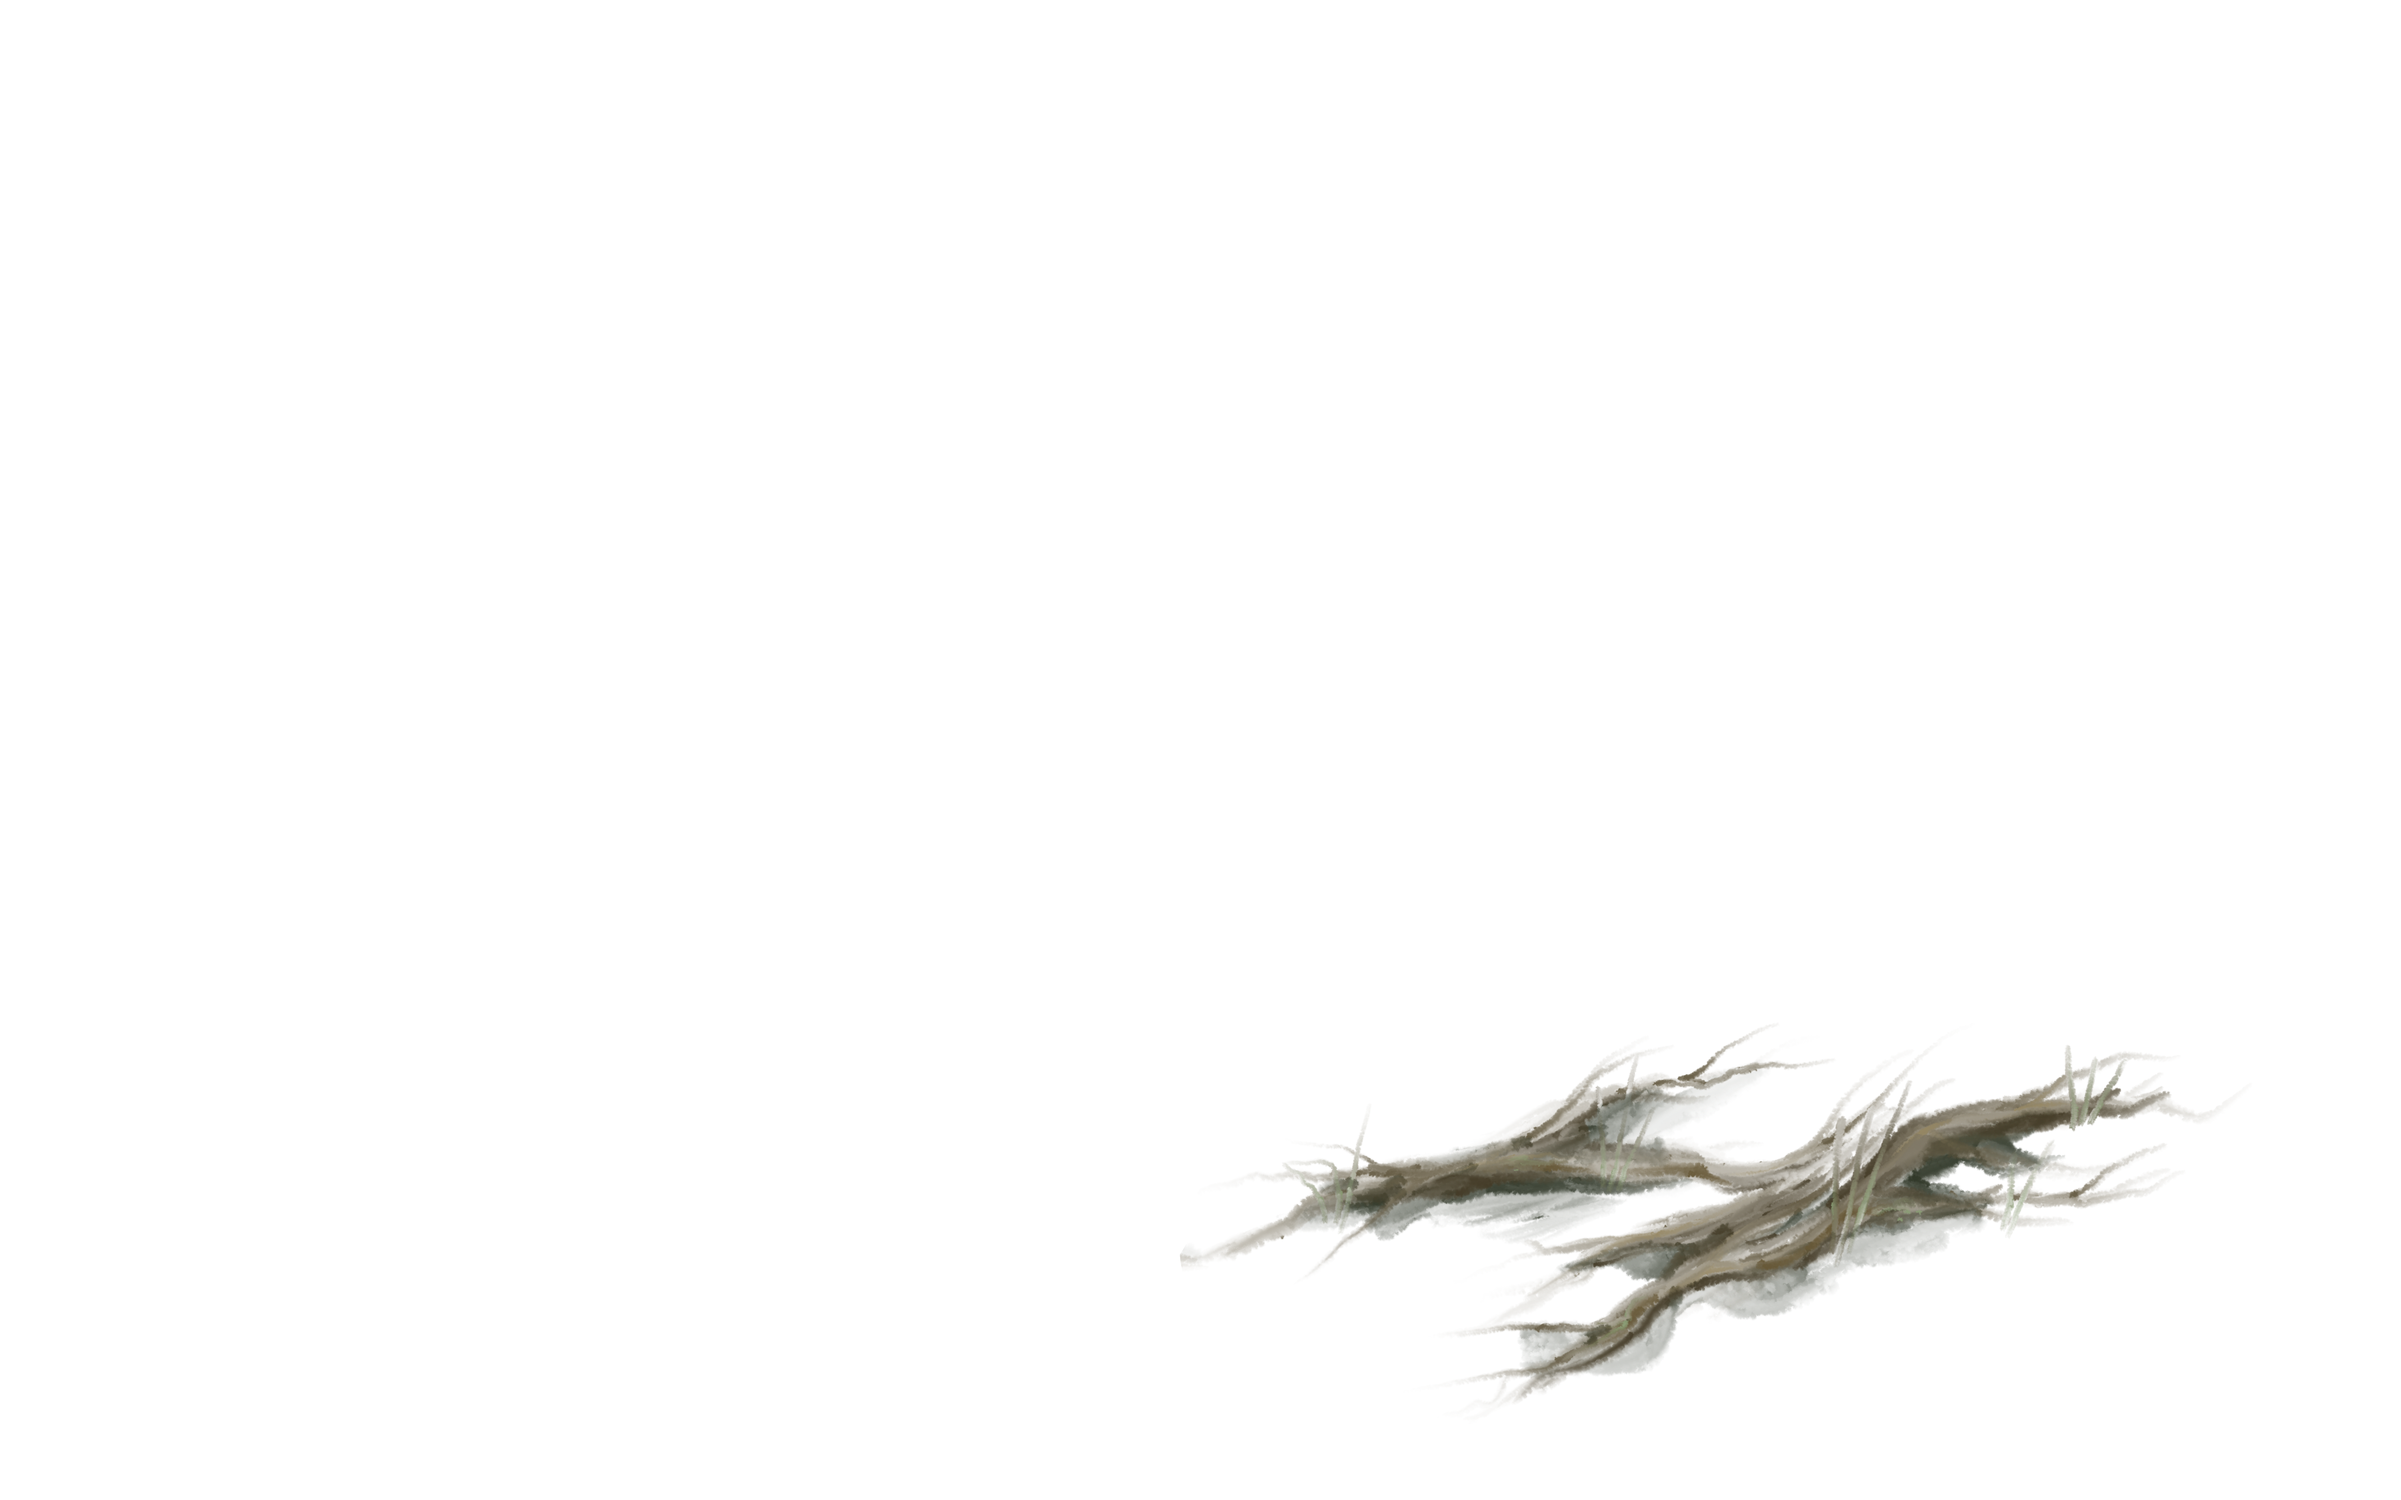
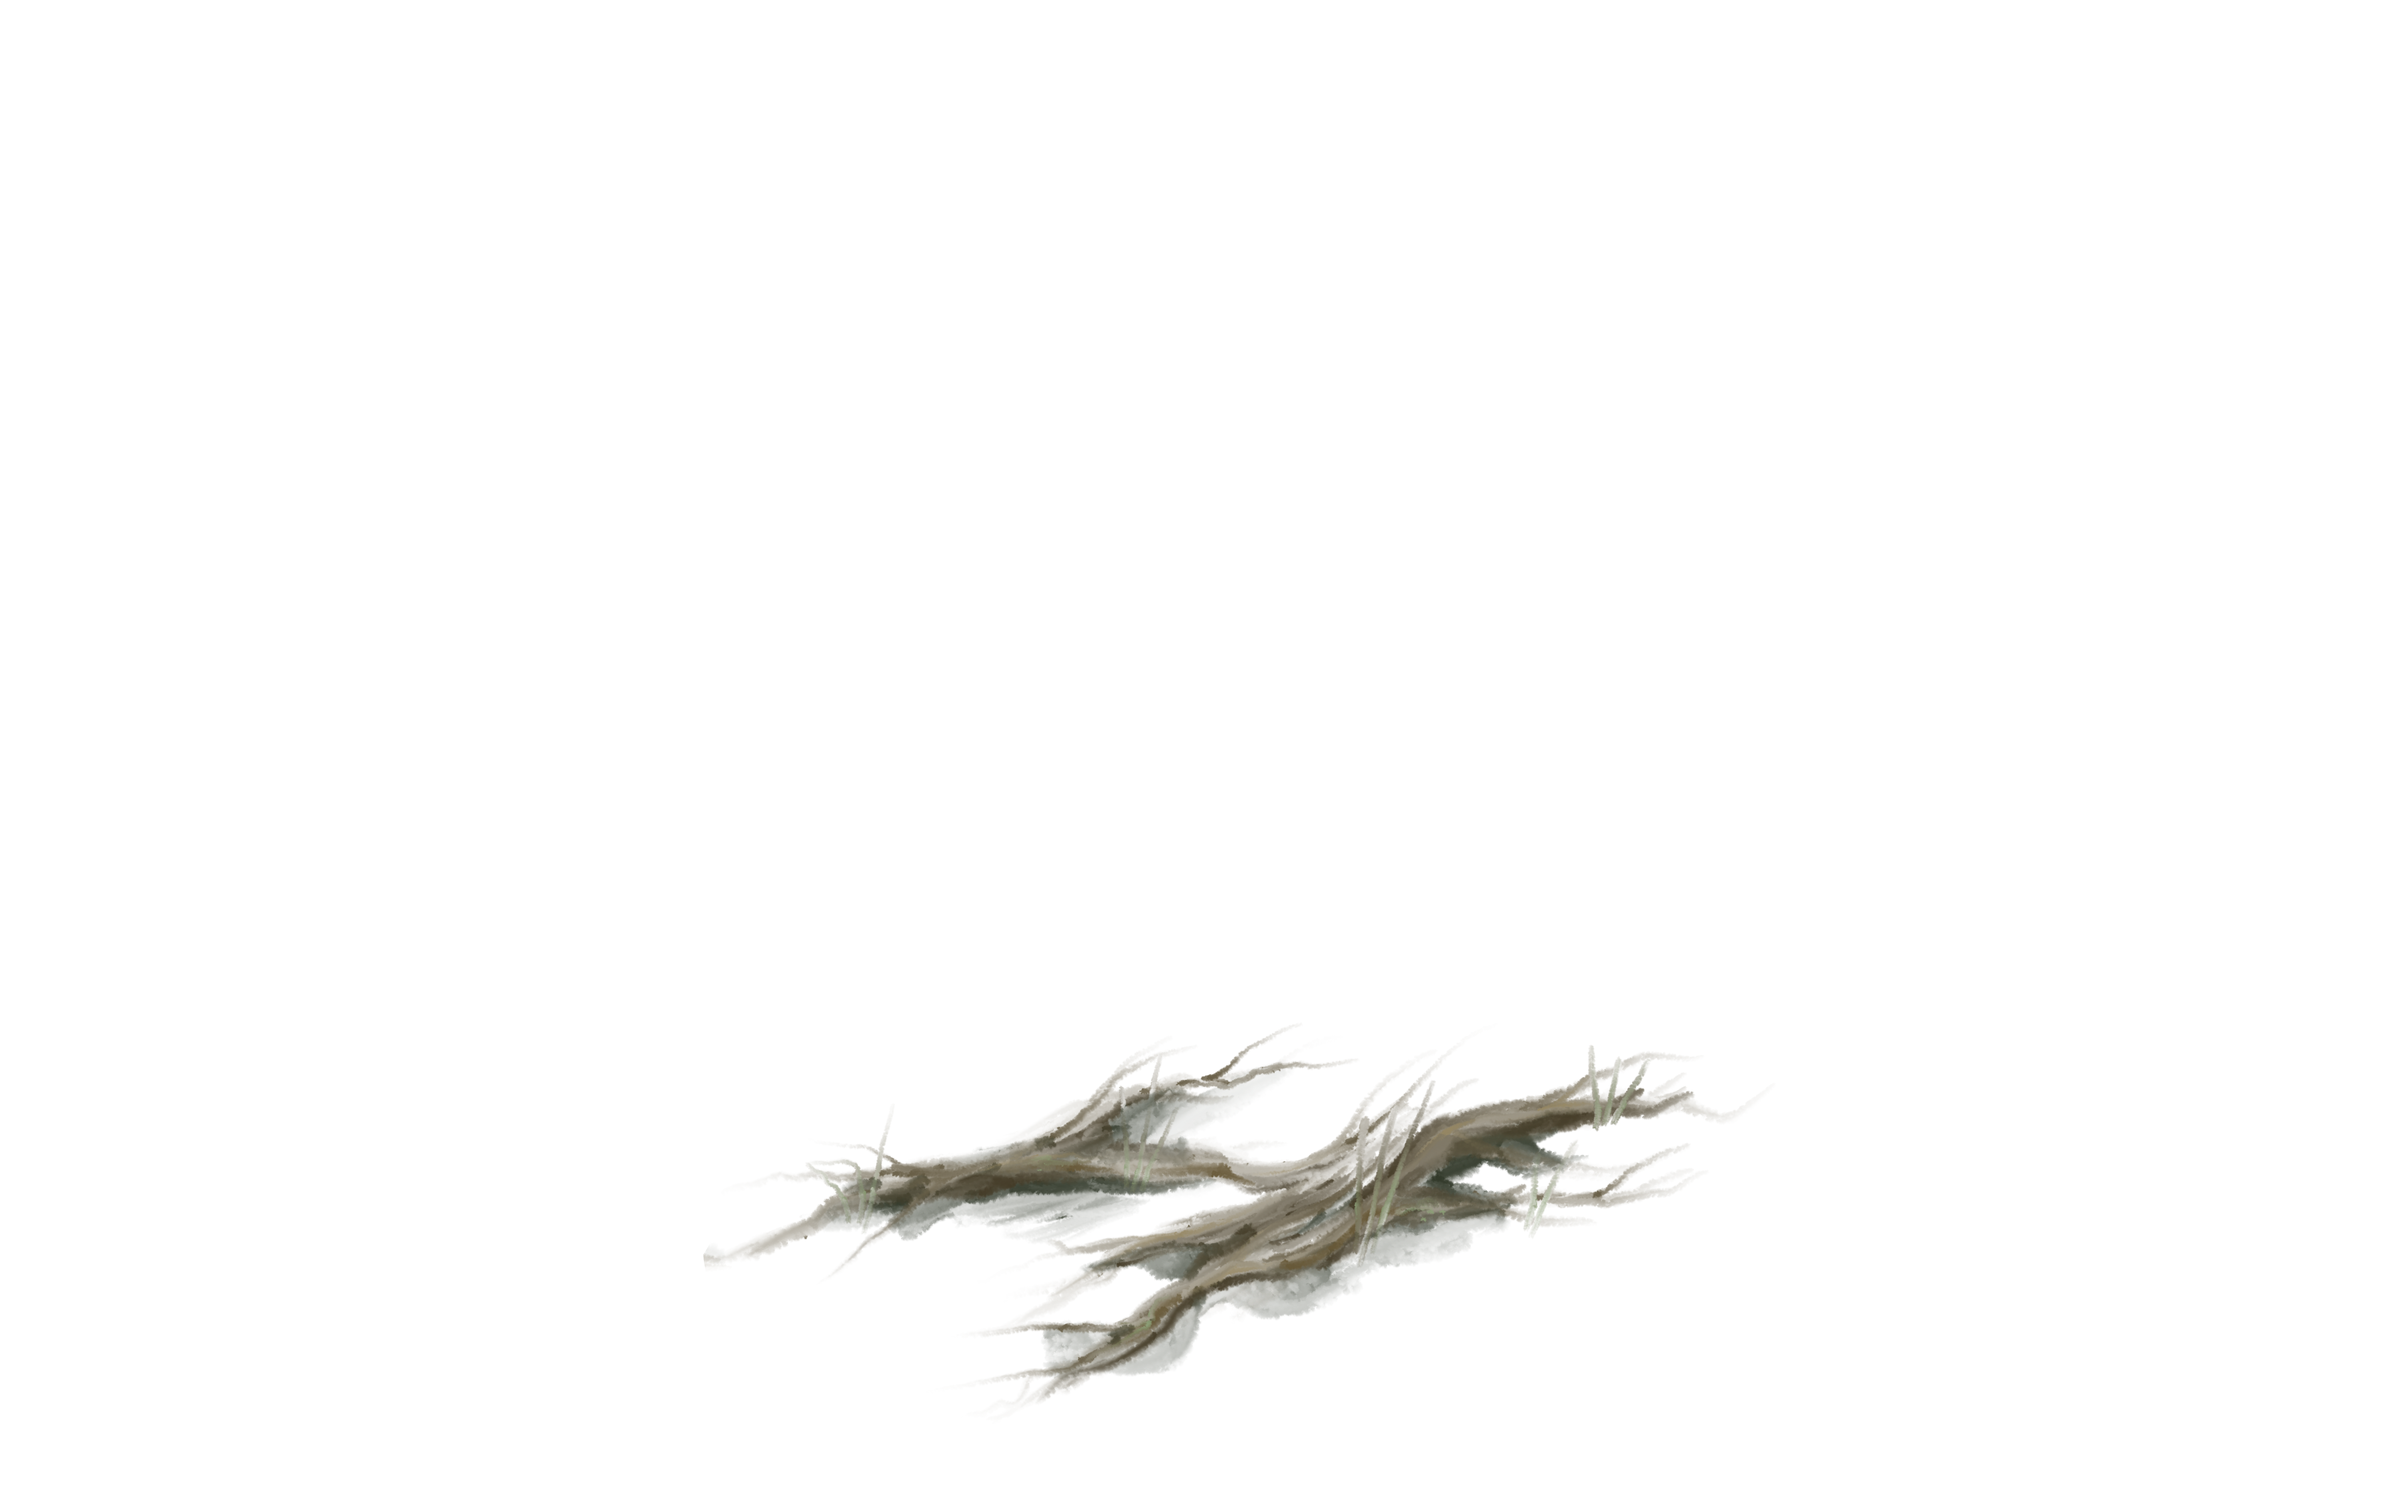
refactored algorithm

Changed region(s): [[0.3117, 0.6864, 0.9038, 0.936]]

diff --git a/algorithm.py b/algorithm.py
@@ -6,20 +6,18 @@ import time
 
 def algorithm(screen, setting, screenwidth, screenheight):
     part = "canvas"
-    canvas(screen, setting, part, screenwidth, screenheight)
+    choseImg(screen, setting, part, screenwidth, screenheight, 0, 0, 0, 0, 0)
     part = "background"
-
-    ##choseImg(scree
-    background(screen, setting, part, screenwidth, screenheight)
+    choseImg(screen, setting, part, screenwidth, screenheight, 0, 0, -25, 25, 10)
     part = "athmo"
-    athmo(screen, setting, part, screenwidth, screenheight)
+    choseImg(screen, setting, part, screenwidth, screenheight, -screenwidth/2, screenwidth/2, -25, 25, 3)
     part = "middle"
-    middle(screen, setting, part, screenwidth, screenheight)
+    choseImg(screen, setting, part, screenwidth, screenheight, -screenwidth/2, screenwidth/2, -25, 25, 4)
     part = "foreground"
-    foreground(screen, setting, part, screenwidth, screenheight)
+    choseImg(screen, setting, part, screenwidth, screenheight, -100, 100, -25, 25, 6)
     part = "frame"
-    frame(screen, setting, part, screenwidth, screenheight)
-    
+    choseImg(screen, setting, part, screenwidth, screenheight, 0, 0, 0, 0, 4)
+
     if not os.path.exists('output'):
         os.makedirs('output')
     
@@ -28,61 +26,12 @@ def algorithm(screen, setting, screenwidth, screenheight):
     pygame.image.save(window_surface, filename)
 
 
-##def choseImg(screen, setting, part, screenwidth, screenheight, randXVal, randYVal, flip, recursion, 
-
-def canvas(screen, setting, part, screenwidth, screenheight):
-    ### BACKGROUND
-    random_background = random.randint(0, 3)
-    ImageMaker.blit_image(screen, setting, part, random_background, screenwidth, screenheight, 0, 0, 0)
-
-def background(screen, setting, part, screenwidth, screenheight):
-    random_recursion = random.randint(0,10)
-    random_background = random.randint(0, 3)
-    randy = random.randint(-25,25)
-    randx = random.randint((-screenwidth)/2,screenwidth/2)
+def choseImg(screen, setting, part, screenwidth, screenheight, randXValmin, randXValmax, randYValmin, randYValmax, recursion):
+    random_recursion = random.randint(0, recursion)
+    random_img = random.randint(0, 3)
+    randx = random.randint(randXValmin, randXValmax)
+    randy = random.randint(randYValmin, randYValmax)
     flip = random.randint(0, 1)
-    ImageMaker.blit_image(screen, setting, part, random_background, screenwidth, screenheight, 0+randx, 0+randy, flip)
+    ImageMaker.blit_image(screen, setting, part, random_img, screenwidth, screenheight, 0+randx, 0+randy, flip)
     if random_recursion>0:
-        background(screen, setting, part, screenwidth, screenheight)
-        
-def athmo(screen, setting, part, screenwidth, screenheight):
-    random_recursion = random.randint(0,3)
-    random_background = random.randint(0, 3)
-    randy = random.randint(-25,25)
-    randx = random.randint((-screenwidth)/2,screenwidth/2)
-    flip = random.randint(0, 1)
-    ImageMaker.blit_image(screen, setting, part, random_background, screenwidth, screenheight, 0+randx, 0+randy, flip)
-    if random_recursion>0:
-        athmo(screen, setting, part, screenwidth, screenheight)
-        
-def middle(screen, setting, part, screenwidth, screenheight):
-    random_recursion = random.randint(0,4)
-    random_background = random.randint(0, 3)
-    randy = random.randint(-25,25)
-    randx = random.randint((-screenwidth)/2,screenwidth/2)
-    flip = random.randint(0, 1)
-    ImageMaker.blit_image(screen, setting, part, random_background, screenwidth, screenheight, 0+randx, 0+randy, flip)
-    if random_recursion>0:
-        middle(screen, setting, part, screenwidth, screenheight)
-
-def foreground(screen, setting, part, screenwidth, screenheight):
-    random_recursion = random.randint(0,6)
-    random_background = random.randint(0, 3)
-    if random_background==3:
-        yesno = random.randint(0, 1)
-        if yesno==1:
-            random_background = random.randint(0, 3)
-    randy = random.randint(-25,25)
-    randx = random.randint((-100),100)
-    flip = random.randint(0, 1)
-    ImageMaker.blit_image(screen, setting, part, random_background, screenwidth, screenheight, 0+randx, 0+randy, flip)
-    if random_recursion>0:
-        foreground(screen, setting, part, screenwidth, screenheight)
-
-def frame(screen, setting, part, screenwidth, screenheight):
-    random_recursion = random.randint(0,4)
-    random_background = random.randint(0, 3)
-    flip = random.randint(0, 1)
-    ImageMaker.blit_image(screen, setting, part, random_background, screenwidth, screenheight, 0, 0, flip)
-    if random_recursion>0:
-        frame(screen, setting, part, screenwidth, screenheight)
+        choseImg(screen, setting, part, screenwidth, screenheight, randXValmin, randXValmax, randYValmin, randYValmax, recursion)

diff --git a/screen.py b/screen.py
@@ -6,24 +6,4 @@ class ScreenManager:
     def __init__(self, width, height, fullscreen=True):
         self.width = width
         self.height = height
-        self.fullscreen = fullscreen
         self.screen = None
-
-    def initialize_screen(self):
-        """Initialize the screen based on the current settings"""
-        if self.fullscreen:
-            self.screen = pygame.display.set_mode((0, 0), pygame.FULLSCREEN)
-            self.width = self.screen.get_rect().width
-            self.height = self.screen.get_rect().height
-        else:
-            self.screen = pygame.display.set_mode((self.width, self.height), pygame.FULLSCREEN)
-        return self.screen
-
-    def toggle_fullscreen(self):
-        """Toggle fullscreen mode"""
-        self.fullscreen = not self.fullscreen
-        self.initialize_screen()
-
-    def get_screen(self):
-        """Get the current screen surface"""
-        return self.screen

diff --git a/button.py b/button.py
@@ -9,7 +9,7 @@ class Button:
         self.rect = pygame.Rect(x, y, width, height)
         self.button_color = button_color
         self.text_color = text_color
-        self.font = pygame.font.SysFont(None, 20)
+        self.font = pygame.font.SysFont(None, 14)
         self.prep_msg(msg)
 
     def prep_msg(self, msg):
